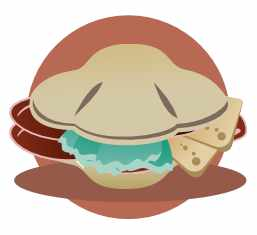
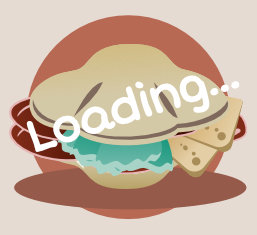
placeholder per caricamento panino

diff --git a/components/prodotti/listaProdottiItem.jsx b/components/prodotti/listaProdottiItem.jsx
@@ -40,16 +40,22 @@ function ListaProdottiItem({
             whileInView="animate"
         >
             <div>
-                {datiPanino.svg &&
+                {datiPanino.svg ? 
                     <div className={style.immaginePanino} id={datiPanino.id.integerValue}>
-                        {datiPanino.svg.stringValue ? <Image
+                        <Image
                             src={datiPanino.svg.stringValue}
                             alt="test"
                             width={200}
                             height={120}
                             layout="responsive"
-                        /> : 'loading'}
-                    </div>}
+                        />
+                    </div> :  <Image
+                            src='/images/placeholderpanino.jpg'
+                            alt="test"
+                            width={120}
+                            height={120}
+                            layout="fixed"
+                        />}
                 <h2>{datiPanino.name.stringValue}</h2>
 
                 <ListaSpec item={datiPanino} />

diff --git a/pages/_app.js b/pages/_app.js
@@ -4,6 +4,7 @@ import { AnimatePresence } from "framer-motion";
 import { useRouter } from "next/router";
 import Layout from "../components/layout/layout";
 import { motion } from "framer-motion";
+import Head from 'next/head'
 
 function MyApp({ Component, pageProps }) {
   const router = useRouter();
@@ -11,6 +12,12 @@ function MyApp({ Component, pageProps }) {
   return (
     <ContextData>
       <Layout>
+        <Head>
+          <meta
+            name="viewport"
+            content="width=device-width, initial-scale=1.0, maximum-scale=1.0, user-scalable=0"
+          ></meta>
+        </Head>
         <AnimatePresence
           exitBeforeEnter
           onExitComplete={() => window.scrollTo(0, 0)}

diff --git a/pages/_document.js b/pages/_document.js
@@ -8,8 +8,7 @@ render(){
             <Head>
                 <link rel="manifest" href="/manifest.json" />
                 <meta name="theme-color" content="#D4C9A7"/>
-                <meta name="viewport" 
-      content="width=device-width, initial-scale=1.0, maximum-scale=1.0, user-scalable=0"></meta>
+                
                 <link rel="apple-touch-icon" href="/images/icon-512x512.png"></link>
             </Head>
             <body>
